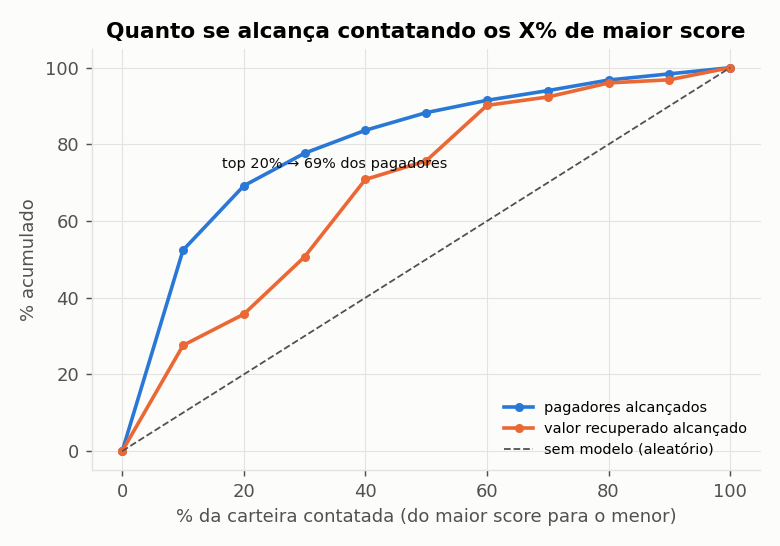
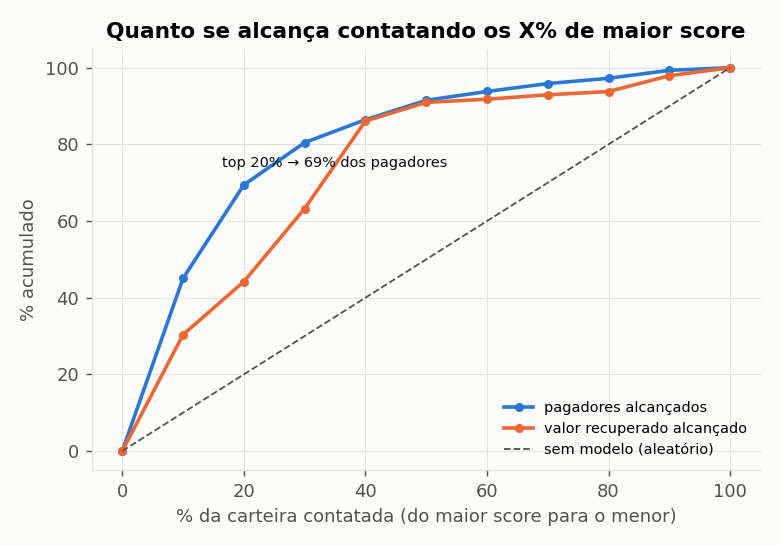
fix: faixas de atraso com volume em todas e operação escorada pela logística

diff --git a/src/treinar.py b/src/treinar.py
@@ -23,6 +23,7 @@ from src.modelos import criar_modelos  # noqa: E402
 ARQUIVOS = ["backtest.csv", "comparacao_modelos.csv", "faixas.csv", "estrategias.csv",
             "auc_no_tempo.png", "psi_no_tempo.png", "captura_decil.png"]
 ETAPA_1, ETAPA_2 = pd.Timestamp("2026-02-01"), pd.Timestamp("2026-06-01")
+MODELO_PRODUCAO = "logistica"   # a decisão do README; os gráficos de drift usam o LightGBM, onde o efeito é maior
 
 # paleta categórica validada (ordem fixa) + tinta de texto e referências neutras
 AZUL, LARANJA, VERDE_AGUA = "#2a78d6", "#eb6834", "#1baf7a"
@@ -127,11 +128,11 @@ def main(pasta_dados: Path = PASTA, pasta_saida: Path = Path("relatorios")) -> N
     comp = estavel.groupby("modelo")[["AUC", "KS", "PR-AUC", "captura_top20", "segundos_treino"]].mean()
     comp.sort_values("AUC", ascending=False).round(4).to_csv(saida / "comparacao_modelos.csv")
 
-    # operação: última safra escorada pelo LightGBM retreinado
+    # operação: última safra escorada pelo modelo escolhido para produção, retreinado
     todas = safras()
     ultima = todas[-1]
     treino = pd.concat(montar_base(d, tabelas) for d in safras_de_treino(ultima, todas))
-    modelo, _, _ = _treinar(criar_modelos()["lightgbm"], treino)
+    modelo, _, _ = _treinar(criar_modelos()[MODELO_PRODUCAO], treino)
     base = montar_base(ultima, tabelas)
     base["score"] = modelo.predict_proba(base[X])[:, 1]
     tabela_faixas(base).round(4).to_csv(saida / "faixas.csv", index=False)

diff --git a/tests/test_faixas.py b/tests/test_faixas.py
@@ -47,9 +47,9 @@ def test_capacidade_respeitada():
 
 
 def test_faixas_atraso_cobrem_tudo():
-    assert list(FAIXAS_ATRASO) == ["01-30", "31-90", "91-360", "361+"]
-    assert faixa_atraso(pd.Series([1, 30, 31, 90, 91, 360, 361, 5000])).tolist() == \
-        ["01-30", "01-30", "31-90", "31-90", "91-360", "91-360", "361+", "361+"]
+    assert list(FAIXAS_ATRASO) == ["0001-0360", "0361-0720", "0721-1080", "1081+"]
+    assert faixa_atraso(pd.Series([1, 360, 361, 720, 721, 1080, 1081, 5000])).tolist() == \
+        ["0001-0360", "0001-0360", "0361-0720", "0361-0720", "0721-1080", "0721-1080", "1081+", "1081+"]
 
 
 def test_tabela_faixas_taxa_e_participacao():
@@ -57,5 +57,5 @@ def test_tabela_faixas_taxa_e_participacao():
     t = tabela_faixas(_carteira())
     assert len(t) == 16
     assert t["faixa"].tolist()[:4] == ["Diamante", "Ouro", "Prata", "Bronze"]
-    assert t["faixa_atraso"].tolist()[0] == "01-30" and t["faixa_atraso"].tolist()[-1] == "361+"
+    assert t["faixa_atraso"].tolist()[0] == "0001-0360" and t["faixa_atraso"].tolist()[-1] == "1081+"
     assert abs(t["pct_carteira"].sum() - 1) < 1e-9 and abs(t["pct_pagadores"].sum() - 1) < 1e-9

diff --git a/tests/test_base_analitica.py b/tests/test_base_analitica.py
@@ -45,3 +45,10 @@ def test_safras():
     assert len(s) == 17
     assert s[0] == pd.Timestamp("2025-07-31")
     assert s[-1] == pd.Timestamp("2026-11-30")
+
+
+def test_todas_as_faixas_de_atraso_tem_volume(base):
+    from src.faixas import FAIXAS_ATRASO, faixa_atraso
+    dist = faixa_atraso(base["dias_atraso"]).value_counts(normalize=True)
+    for faixa in FAIXAS_ATRASO:
+        assert dist.get(faixa, 0) >= 0.10, (faixa, dist.to_dict())

diff --git a/src/faixas.py b/src/faixas.py
@@ -7,7 +7,7 @@ ficariam sem prioridade. Cortando dentro de cada faixa, toda equipe recebe a sua
 import numpy as np
 import pandas as pd
 
-FAIXAS_ATRASO = {"01-30": (0, 30), "31-90": (30, 90), "91-360": (90, 360), "361+": (360, np.inf)}
+FAIXAS_ATRASO = {"0001-0360": (0, 360), "0361-0720": (360, 720), "0721-1080": (720, 1080), "1081+": (1080, np.inf)}
 PIRAMIDE = {"Diamante": .10, "Ouro": .20, "Prata": .30, "Bronze": .40}
 
 
